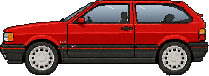
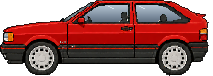
Gaúcho GTI: coluna C de volta ao lugar; tampa traseira e aerofólio mais para trás
A versão anterior deslocava o vidro e a coluna C. Agora só a lataria atrás do vidro é
esticada: a ponta da tampa com o aerofólio e o painel da lanterna vão para trás, como medido
na foto do GTI. O teto mais baixo continua.

Claude-Session: https://claude.ai/code/session_01MLD9VR7gkmY4w6a9beZcp6

diff --git a/src/cars.ts b/src/cars.ts
@@ -328,7 +328,7 @@ const LAMPS: Record<string, LampDef> = {
 // sprite), medidas pelo aro claro acima do contato com o chão: giram na chegada ao posto
 const WHEELS: Record<string, number[][]> = {
   '959': [[0.199, 0.739, 0.08], [0.754, 0.74, 0.08]],
-  'br-golgti': [[0.197, 0.758, 0.086], [0.833, 0.758, 0.086]],
+  'br-golgti': [[0.193, 0.758, 0.084], [0.817, 0.758, 0.084]],
   'br-vectra': [[0.175, 0.788, 0.066], [0.777, 0.792, 0.064]],
   'countach': [[0.234, 0.733, 0.07], [0.827, 0.708, 0.077]],
   'diablo': [[0.204, 0.73, 0.072], [0.794, 0.72, 0.074]],

diff --git a/tools/ref/gol_sprites.py b/tools/ref/gol_sprites.py
@@ -49,8 +49,8 @@ def glass(a):
 
 def reshape_side(a, belt=30, drop=5):
     """Proporção da lateral como no Gol de verdade: área envidraçada mais baixa (teto desce
-    drop px, comprimindo só acima da linha das janelas) e o teto mais comprido atrás, com a
-    tampa traseira mais curta e inclinada até o aerofólio (a arte deixava a traseira recuada)."""
+    drop px, comprimindo só acima da linha das janelas); a coluna C e a tampa traseira ficam
+    onde a arte desenhou."""
     H, W = a.shape[:2]
     H2 = H - drop
     out = np.zeros((H2, W, 4), np.uint8)
@@ -58,15 +58,34 @@ def reshape_side(a, belt=30, drop=5):
     for ty in range(H2):
         sy = ty + drop if ty >= nb else min(belt - 1, int((ty + 0.5) * belt / nb))
         out[ty] = a[sy]
-    # teto para trás: 150 fica, 172 (fim do teto) vai a 183, 200 (aerofólio) a 202
-    src = np.array([0, 150, 172, 200, W - 1], float)
-    dst = np.array([0, 150, 183, 202, W - 1], float)
-    xs = np.arange(W) + 0.5
-    for y in range(nb):
-        w = 1.0 if y < nb - 8 else (nb - y) / 8  # some até a linha das janelas
-        d = src + (dst - src) * w
-        sx = np.interp(xs, d, src).astype(int).clip(0, W - 1)
-        out[y] = out[y, sx]
+    return out
+
+
+TAIL = [(4, 0), (8, 1.5), (12, 3), (13, 4), (19, 4), (22, 3), (24, 1.5), (41, 1.5), (42, 0)]
+
+
+def extend_tail(a, grow=4):
+    """A ponta da tampa traseira com o aerofólio e o painel da lanterna vão mais para trás
+    (medido na foto do GTI: o aerofólio passa da lanterna); vidro e coluna C não mexem: em cada
+    linha só o trecho de lataria atrás do vidro é esticado."""
+    H, W = a.shape[:2]
+    out = np.zeros((H, W + grow, 4), np.uint8)
+    out[:, :W] = a
+    ys, ds = zip(*TAIL)
+    for y in range(H):
+        d = int(round(np.interp(y, ys, ds, left=0, right=0)))
+        xs = np.nonzero(a[y, :, 3])[0]
+        if not d or not len(xs):
+            continue
+        xr = xs.max()
+        rgb = a[y, :, :3].astype(int)
+        gl = np.nonzero((a[y, :, 3] > 0) & (rgb[:, 2] - rgb[:, 0] >= 12) & (rgb.mean(axis=1) > 80))[0]
+        gl = gl[gl > xr - 30]
+        x0 = gl.max() + 3 if len(gl) else xr - 10
+        x0 = min(x0, xr - 2)
+        n = xr - x0 + 1
+        src = x0 + (np.arange(n + d) * n / (n + d)).astype(int)
+        out[y, x0:x0 + n + d] = a[y, src]
     return out
 
 
@@ -172,8 +191,10 @@ def main():
         a = np.array(Image.open(out).convert('RGBA'))
         if view == 'side':
             a = reshape_side(a)
-        H, W = a.shape[:2]
         glass(a)
+        if view == 'side':
+            a = extend_tail(a)
+        H, W = a.shape[:2]
         if view == 'rear':
             fix_rear(a)
         # fora da pintura: lanternas (vermelhas como a lataria), a placa e o friso vermelho dos
